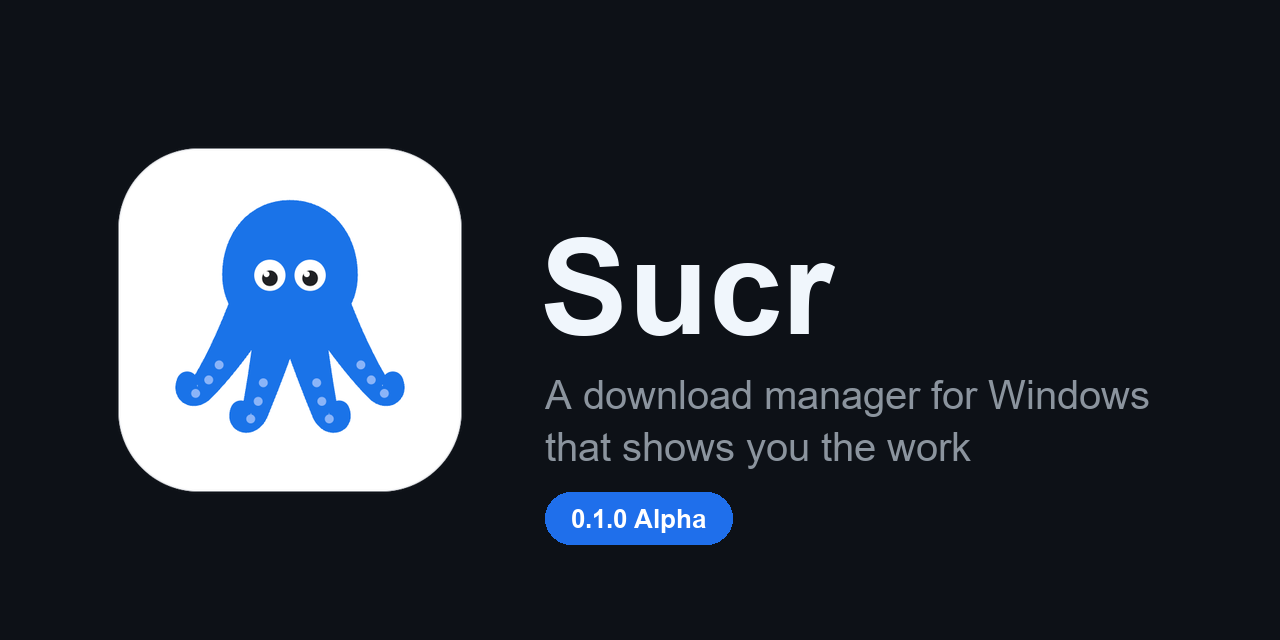
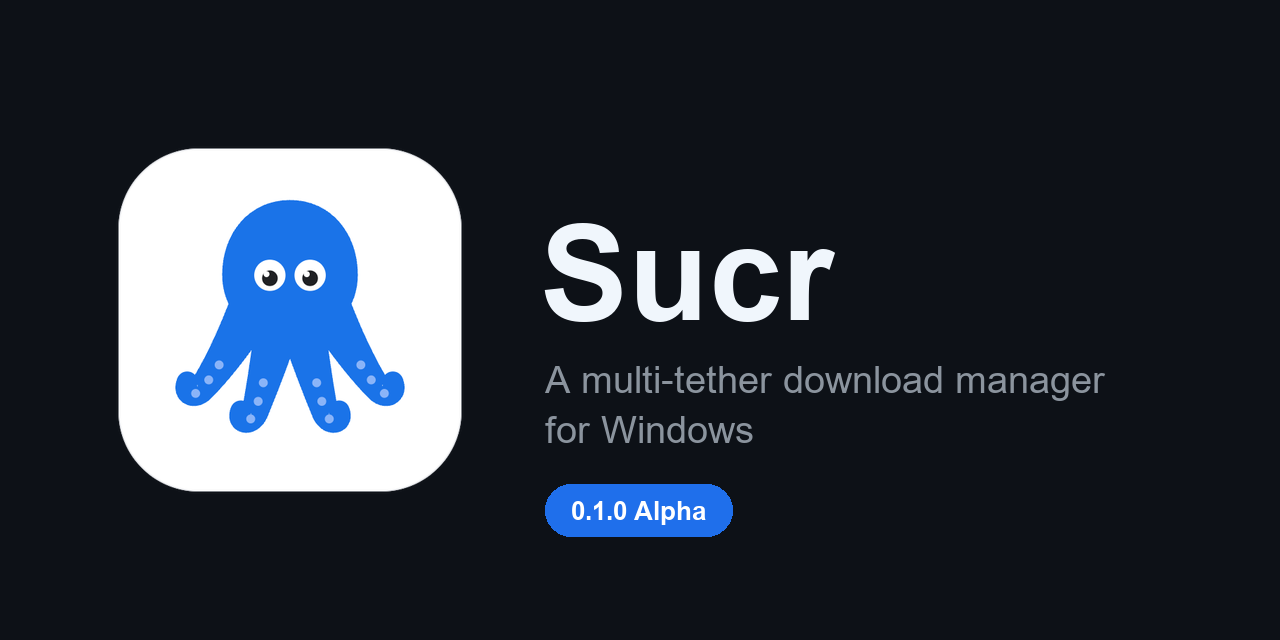
Lead the README with multi-tether

Changed region(s): [[0.4062, 0.5625, 0.9062, 0.7188], [0.4062, 0.3438, 0.6562, 0.5312], [0.4062, 0.75, 0.5938, 0.875]]

diff --git a/README.md b/README.md
@@ -4,7 +4,7 @@
 
 <h1 align="center">Sucr</h1>
 
-<p align="center"><strong>Sucr 0.1.0 (Alpha)</strong> — a download manager for Windows that shows you the work: every connection, every chunk, and which adapter carried it.</p>
+<p align="center"><strong>Sucr 0.1.0 (Alpha)</strong> — a multi-tether download manager for Windows: turn on more than one network and one file leaves across all of them, every chunk tagged by the adapter that carried it.</p>
 
 Sucr is a single native executable (Tauri 2 + WebView2, no Electron) of about 4.7 MB. It does not ship a browser engine, a background service, or an installer that runs at boot.
 
@@ -12,18 +12,28 @@ Sucr is a single native executable (Tauri 2 + WebView2, no Electron) of about 4.
 
 ![Sucr downloading a file](docs/screenshots/downloads.png)
 
+## Multi-tether
+
+Windows hands each new socket to one interface, so most download managers' "multi-connection" downloads still ride a single adapter. Sucr binds its connections to the networks you have enabled instead, so Ethernet, Wi-Fi and a phone tethered over USB carry the same file at once — and the Chunks inspector colours every block by the route that delivered it.
+
+- **Dynamic** — every route carries blocks at once, and a straggler's tail is handed to whichever worker is free, on any route.
+- **Hedging** — the primary carries the bulk; a block whose stream goes quiet for three seconds is raced on a secondary route, and the first half to arrive wins.
+- **Failover** — one route until it errors, with the backup link left idle until then.
+
+A metered guard keeps a metered connection out of the bond, and each adapter keeps its own speed cap and data allowance.
+
+![Networks screen](docs/screenshots/networks.png)
+
 ## What it does
 
-- **Multi-connection downloads.** A job starts with 8 concurrent HTTP connections and widens toward 32 only when an extra connection earns its share of the bandwidth. If the host refuses one, the job narrows again instead of stalling.
+- **Multi-tether downloads.** One job spreads its blocks over every adapter you enable — Ethernet, Wi-Fi, a tethered phone — instead of queueing behind the one route Windows would have picked.
+- **Eight connections that earn more.** A job starts with 8 concurrent HTTP connections and widens toward 32 only when an extra connection earns its share of the bandwidth. If the host refuses one, the job narrows again instead of stalling.
 - **Resuming that checks.** A paused transfer continues only when the remote's ETag, `Last-Modified` and sampled bytes still match what was downloaded.
-- **An inspector per download.** Overview, chunks (with the route that carried each block), source, schedule, files and activity.
-- **Network control.** Per-adapter speed caps and data allowances, a bonding policy across adapters (dynamic, hedging, failover) and a guard that keeps a metered connection out of the bond.
+- **An inspector per download.** Overview, chunks with the route that carried each block, source, schedule, files and activity.
 - **Proxies and credentials.** System, direct or manual proxy with Basic auth and bypasses, plus per-host site credentials for links that need a login.
 - **Browser capture.** A Manifest V3 add-on that hands downloads to Sucr — Chromium (Chrome, Edge, Helium) and Firefox (Firefox, Zen).
 - **Download window.** Queued links start only inside the hours and days you pick.
 - **Updates, debug log and a report button** that opens a pre-filled GitHub issue. Nothing is sent unless you submit it.
-
-![Networks screen](docs/screenshots/networks.png)
 
 ## Install
 
